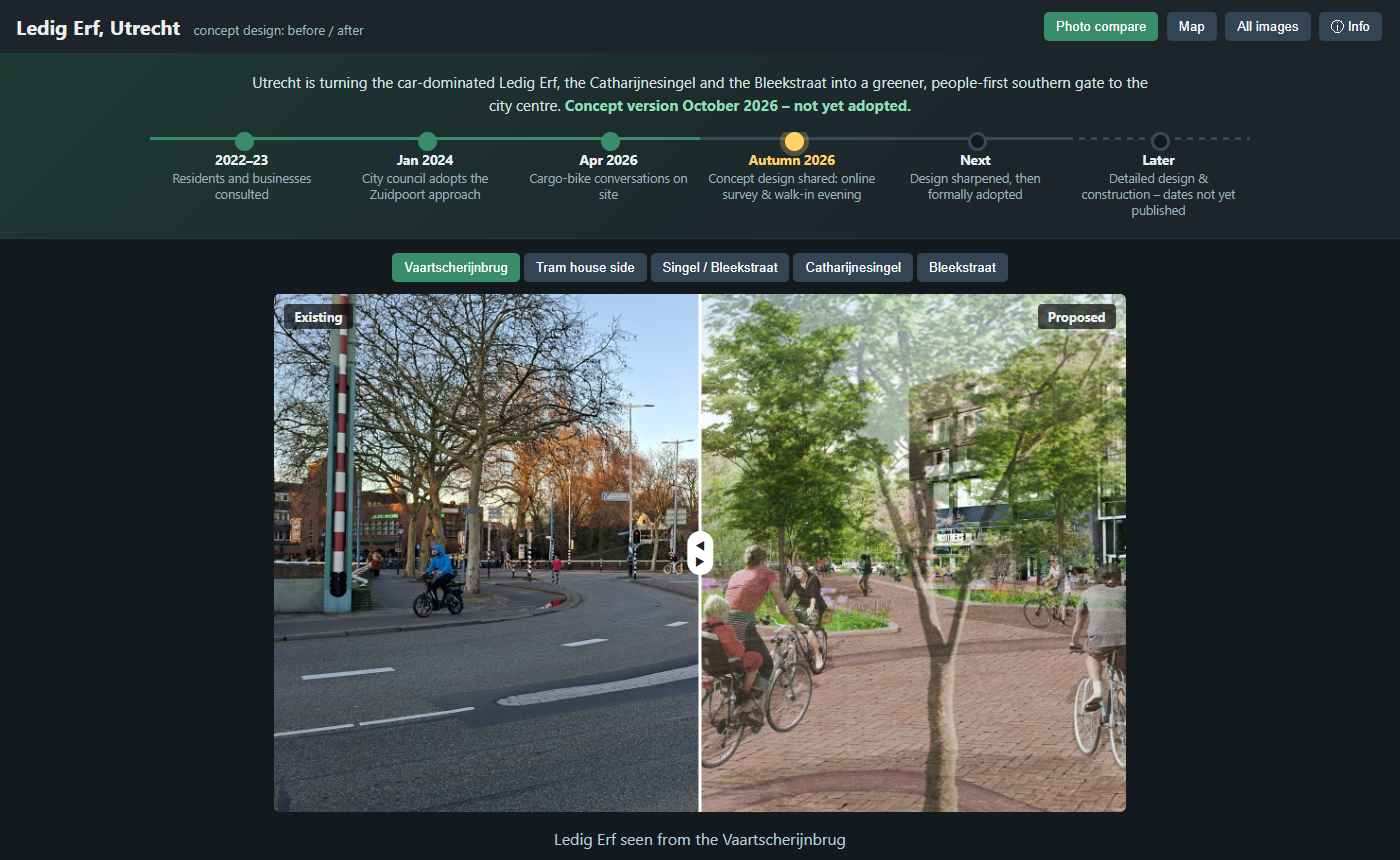
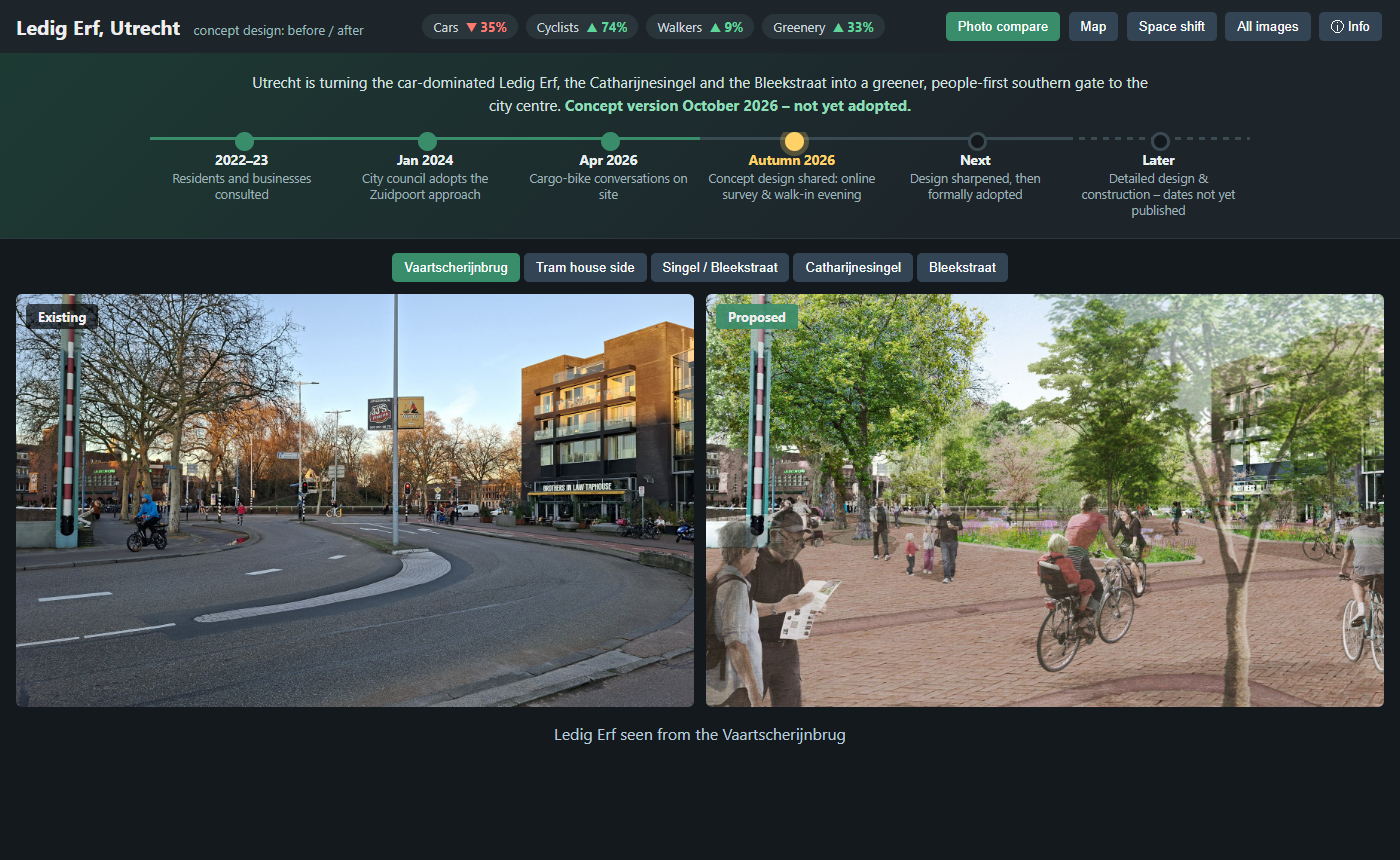
Show existing and proposed photos side by side instead of slider

diff --git a/docs/style.css b/docs/style.css
@@ -7,14 +7,12 @@ button { padding: 7px 12px; border: 0; border-radius: 5px; background: #345; col
 button.active, button:hover { background: #3a8d6b; }
 .tab { display: none; padding: 12px 16px; }
 .tab.active { display: block; }
-#slider { position: relative; max-width: max(480px, min(1400px, calc((100vh - 300px) * 1.52))); margin: 10px auto; overflow: hidden; user-select: none; touch-action: none; cursor: ew-resize; border-radius: 6px; }
-#slider img { display: block; width: 100%; height: auto; }
-#clip { position: absolute; inset: 0 auto 0 0; width: 50%; overflow: hidden; }
-#clip img { max-width: none; height: 100%; object-fit: cover; }
-#handle { position: absolute; top: 0; bottom: 0; width: 3px; background: #fff; transform: translateX(-1.5px); }
-#handle span { position: absolute; top: 50%; left: 50%; transform: translate(-50%, -50%); background: #fff; color: #222; padding: 6px 8px; border-radius: 16px; font-size: 12px; }
-.tag { position: absolute; top: 10px; padding: 4px 10px; border-radius: 4px; background: rgba(0,0,0,.65); font-size: 13px; }
-.tag.left { left: 10px; } .tag.right { right: 10px; }
+#sbs { display: grid; grid-template-columns: 1fr 1fr; gap: 12px; max-width: 1500px; margin: 10px auto; }
+#sbs figure { margin: 0; position: relative; }
+#sbs img { display: block; width: 100%; height: auto; max-height: calc(100vh - 290px); object-fit: contain; background: #0e1215; border-radius: 6px; }
+#sbs figcaption { position: absolute; top: 10px; left: 10px; padding: 4px 12px; border-radius: 4px; background: rgba(0,0,0,.65); font-size: 13px; font-weight: 700; }
+#sbs figure:last-child figcaption { background: rgba(58,141,107,.9); }
+@media (max-width: 800px) { #sbs { grid-template-columns: 1fr; } #sbs img { max-height: none; } }
 #caption { text-align: center; color: #bcd; }
 #pairs { text-align: center; }
 #grid { display: grid; grid-template-columns: repeat(auto-fill, minmax(260px, 1fr)); gap: 8px; }

diff --git a/docs/app.js b/docs/app.js
@@ -13,13 +13,6 @@ function show(p, btn) {
   $("#imgAfter").src = img(p.after);
   $("#caption").textContent = p.text;
   document.querySelectorAll("#pairs button").forEach((b) => b.classList.toggle("active", b === btn));
-  setPos(50);
-}
-
-function setPos(pct) {
-  pct = Math.max(0, Math.min(100, pct));
-  $("#clip").style.width = pct + "%";
-  $("#handle").style.left = pct + "%";
 }
 
 PAIRS.forEach((p, i) => {
@@ -30,27 +23,12 @@ PAIRS.forEach((p, i) => {
   if (i === 0) show(p, b);
 });
 
-const slider = $("#slider");
-let drag = false;
-const move = (e) => {
-  const r = slider.getBoundingClientRect();
-  setPos(((e.touches ? e.touches[0].clientX : e.clientX) - r.left) / r.width * 100);
-};
-slider.addEventListener("pointerdown", (e) => { drag = true; move(e); });
-window.addEventListener("pointerup", () => (drag = false));
-window.addEventListener("pointermove", (e) => drag && move(e));
-
-// keep the "before" image the same size as the slider so both align
-function fit() { $("#imgBefore").style.width = slider.clientWidth + "px"; }
-new ResizeObserver(fit).observe(slider);
-
 function showTab(tab) {
   const b = document.querySelector(`nav button[data-tab="${tab}"]`);
   if (!b) return;
   document.querySelectorAll("nav button, .tab").forEach((e) => e.classList.remove("active"));
   b.classList.add("active");
   $("#" + tab).classList.add("active");
-  fit();
   if (window.onTab) window.onTab(tab);
 }
 

diff --git a/docs/index.html b/docs/index.html
@@ -34,11 +34,9 @@
 
   <main id="compare" class="tab active">
     <div id="pairs"></div>
-    <div id="slider">
-      <img id="imgAfter" alt="After">
-      <div id="clip"><img id="imgBefore" alt="Before"></div>
-      <div id="handle"><span>◀ ▶</span></div>
-      <b class="tag left">Existing</b><b class="tag right">Proposed</b>
+    <div id="sbs">
+      <figure><img id="imgBefore" alt="Existing"><figcaption>Existing</figcaption></figure>
+      <figure><img id="imgAfter" alt="Proposed"><figcaption>Proposed</figcaption></figure>
     </div>
     <p id="caption"></p>
   </main>

diff --git a/README.md b/README.md
@@ -1,6 +1,6 @@
 # Ledig Erf – before / after photo viewer
 
-Extracts the images from the concept design note *"Nota van Uitgangspunten en Schetsontwerp Ledig Erf – Bleekstraat"* (Utrecht) and shows them in a static website with a before/after slider (existing situation vs. proposed design). Ready for GitHub Pages.
+Extracts the images from the concept design note *"Nota van Uitgangspunten en Schetsontwerp Ledig Erf – Bleekstraat"* (Utrecht) and shows them in a static website with existing and proposed photos side by side. Ready for GitHub Pages.
 
 **Live site: <https://bertt.github.io/ledigerf/>**
 
@@ -25,7 +25,7 @@ uv run python scripts/make_gallery.py      # web JPEGs + docs/images/gallery.jso
 
 `docs/` is a static site with five tabs:
 
-- **Photo compare** (default) – before/after slider for each existing/proposed pair.
+- **Photo compare** (default) – existing and proposed photos side by side for each pair.
 - **Map** – MapLibre map (OpenFreeMap base) with the georeferenced site plans of Ledig Erf (p18) and Catharijnesingel (p30) as overlays; toggle and opacity controls.
 - **Permanent links** – every tab has its own URL: [`#compare`](https://bertt.github.io/ledigerf/#compare), [`#map`](https://bertt.github.io/ledigerf/#map), [`#space`](https://bertt.github.io/ledigerf/#space), [`#gallery`](https://bertt.github.io/ledigerf/#gallery), [`#info`](https://bertt.github.io/ledigerf/#info). The address bar updates when switching tabs, and back/forward works.
 - **Space shift** – rough estimate of the share of space for cars, cyclists, pedestrians and greenery, existing vs. proposed.
